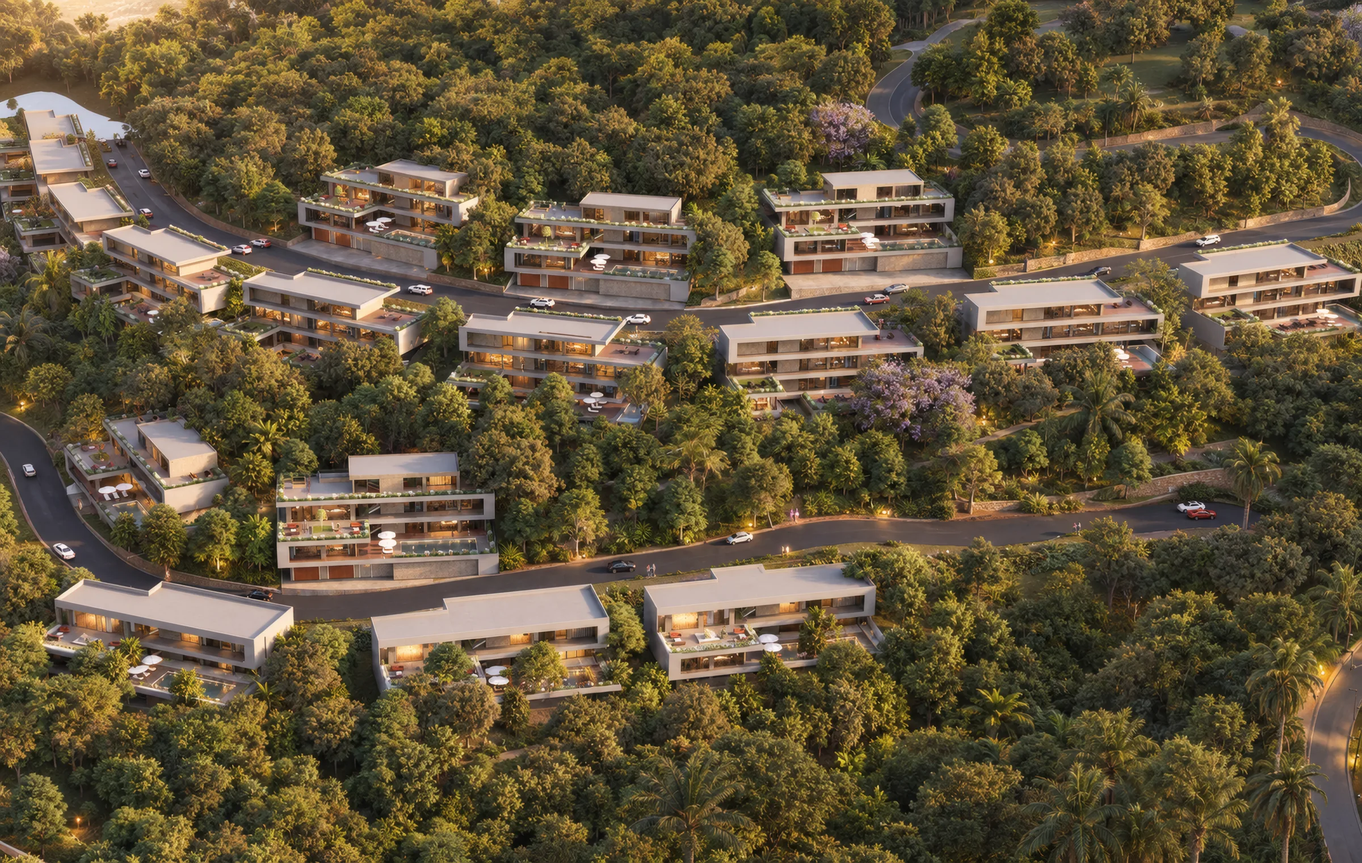
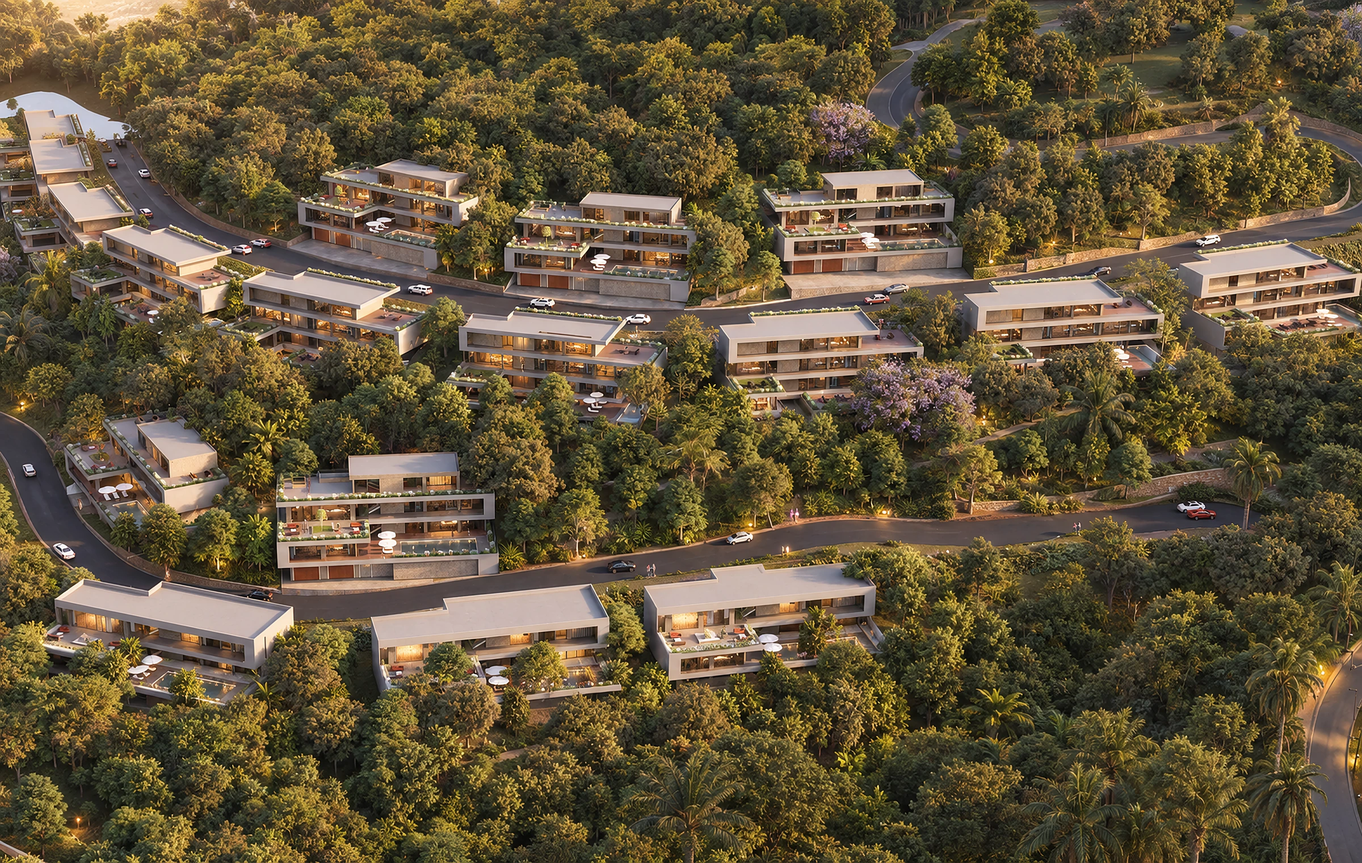
Serve sharper images
Images were being re-encoded as AVIF at quality 80-82, which smoothed away
fine texture. Serve WebP at quality 90 instead, and re-export the twelve
enhanced heroes from their full-size sources with light sharpening.

Claude-Session: https://claude.ai/code/session_01NWmG8iTX6wmbZ4eTDMxGfh

diff --git a/src/components/home/WorkSpreads.tsx b/src/components/home/WorkSpreads.tsx
@@ -59,7 +59,7 @@ function Spread({ project: p, layout }: { project: Project; layout: Layout }) {
               alt={image.alt}
               fill
               sizes={tall ? "(min-width: 768px) 42vw, 100vw" : layout === "plate-wide" ? "100vw" : "(min-width: 768px) 67vw, 100vw"}
-              quality={80}
+              quality={90}
               className="object-cover transition-transform duration-[1400ms] ease-[var(--ease-out)] group-hover:scale-[1.035]"
               style={{ objectPosition: image.focus }}
             />

diff --git a/src/components/home/WorkIndex.tsx b/src/components/home/WorkIndex.tsx
@@ -89,7 +89,7 @@ export function WorkIndex({ projects }: { projects: Project[] }) {
                     alt=""
                     fill
                     sizes="(min-width: 768px) 40vw, 1px"
-                    quality={80}
+                    quality={90}
                     loading="eager"
                     className="object-cover"
                     style={{ objectPosition: p.hero.focus }}

diff --git a/next.config.ts b/next.config.ts
@@ -2,7 +2,8 @@ import type { NextConfig } from "next";
 
 const nextConfig: NextConfig = {
   images: {
-    formats: ["image/avif", "image/webp"],
+    // WebP only: AVIF at these settings smooths away fine texture (stone, glazing, foliage).
+    formats: ["image/webp"],
     qualities: [75, 80, 82, 90],
     deviceSizes: [640, 828, 1080, 1280, 1600, 1920, 2400],
   },

diff --git a/src/components/home/HomeHero.tsx b/src/components/home/HomeHero.tsx
@@ -41,7 +41,7 @@ export function HomeHero({ profile, project }: { profile: Profile; project: Proj
             fill
             priority
             sizes="(min-width: 768px) 62vw, 100vw"
-            quality={82}
+            quality={90}
             className="anim-settle object-cover"
             style={{ objectPosition: project.hero.focus }}
           />

diff --git a/src/components/project/ProjectHeader.tsx b/src/components/project/ProjectHeader.tsx
@@ -44,7 +44,7 @@ export function ProjectHeader({ project: p, total }: { project: Project; total: 
             fill
             priority
             sizes="100vw"
-            quality={82}
+            quality={90}
             className="anim-settle object-cover"
             style={{ objectPosition: p.hero.focus }}
           />

diff --git a/src/components/Figure.tsx b/src/components/Figure.tsx
@@ -47,7 +47,7 @@ export function Figure({
         fill
         sizes={sizes}
         priority={priority}
-        quality={drawing ? 90 : 80}
+        quality={90}
         className={drawing ? "object-contain" : "object-cover"}
         style={image.focus && !drawing ? { objectPosition: image.focus } : undefined}
       />
